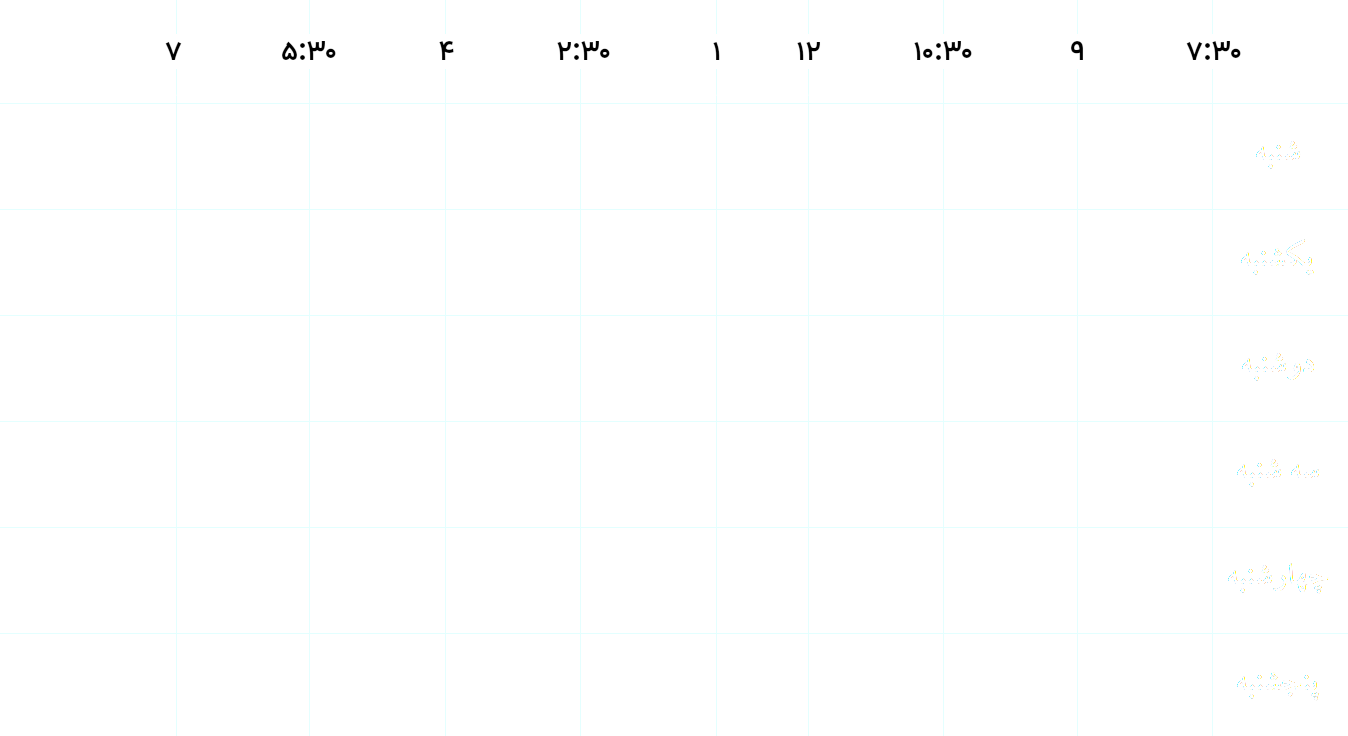
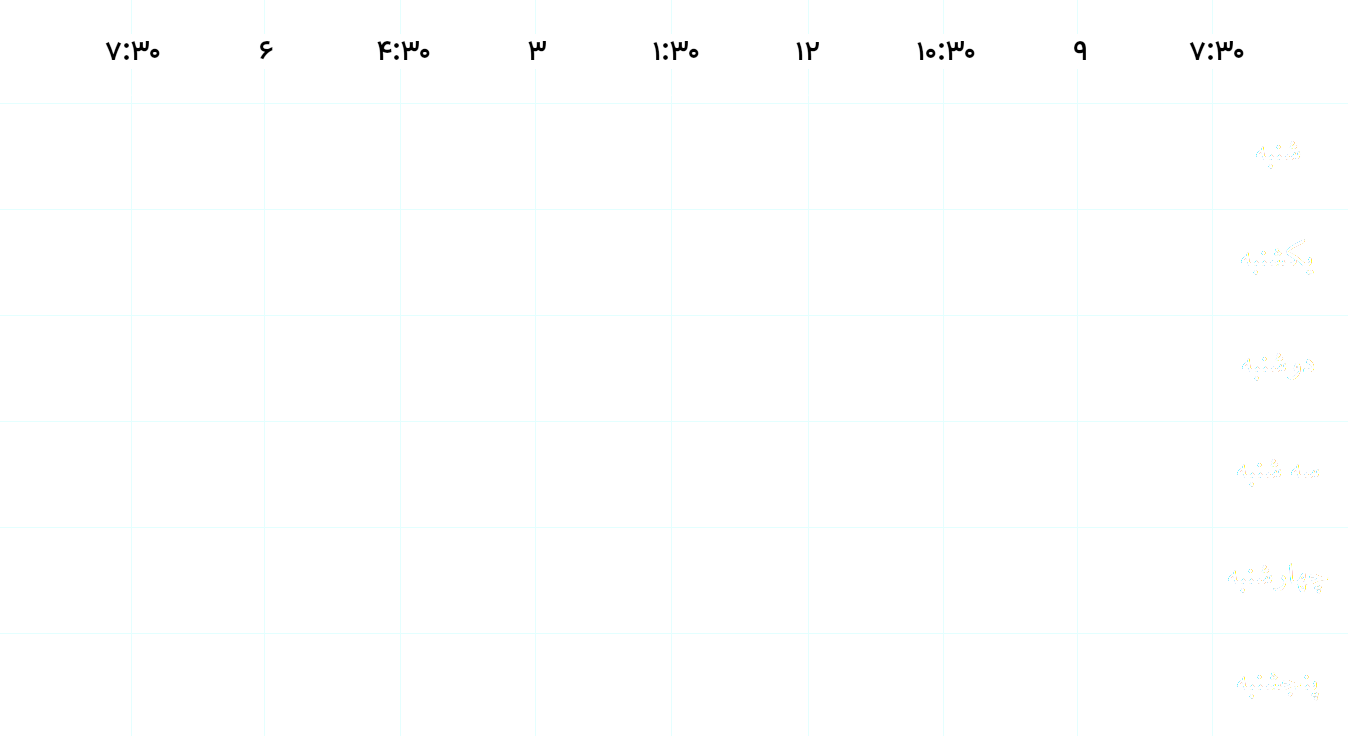
Use new schadule table

diff --git a/microservices/app/templates/schedule.html b/microservices/app/templates/schedule.html
@@ -10,7 +10,7 @@
     <link rel="stylesheet" href="/css/base.css?v=2">
     <link href="https://cdn.jsdelivr.net/gh/rastikerdar/vazir-font@v27.1.0/dist/font-face.css" rel="stylesheet" type="text/css" />
     <link rel="stylesheet" href="https://cdn.jsdelivr.net/npm/bootstrap-select@1.13.10/dist/css/bootstrap-select.min.css">
-    <link rel="stylesheet" href="/css/schedule.css?v=3">
+    <link rel="stylesheet" href="/css/schedule.css?v=4">
     <link rel="shortcut icon" href="/images/favicon.ico">
   </head>
   <body>

diff --git a/microservices/app/css/schedule.css b/microservices/app/css/schedule.css
@@ -13,18 +13,10 @@ body {
 }
 
 .schedule-table {
-  background-image: url("/images/schedule_table.png");
+  background-image: url("/images/schedule_table.png?v=2");
   background-size: contain;
   width: 55em;
   height: 30em;
-  position: relative;
-}
-
-.exam-table {
-  background-image: url("/images/exam_table_fall99.png");
-  background-size: contain;
-  width: 85em;
-  padding-bottom: 34.8%;
   position: relative;
 }
 
